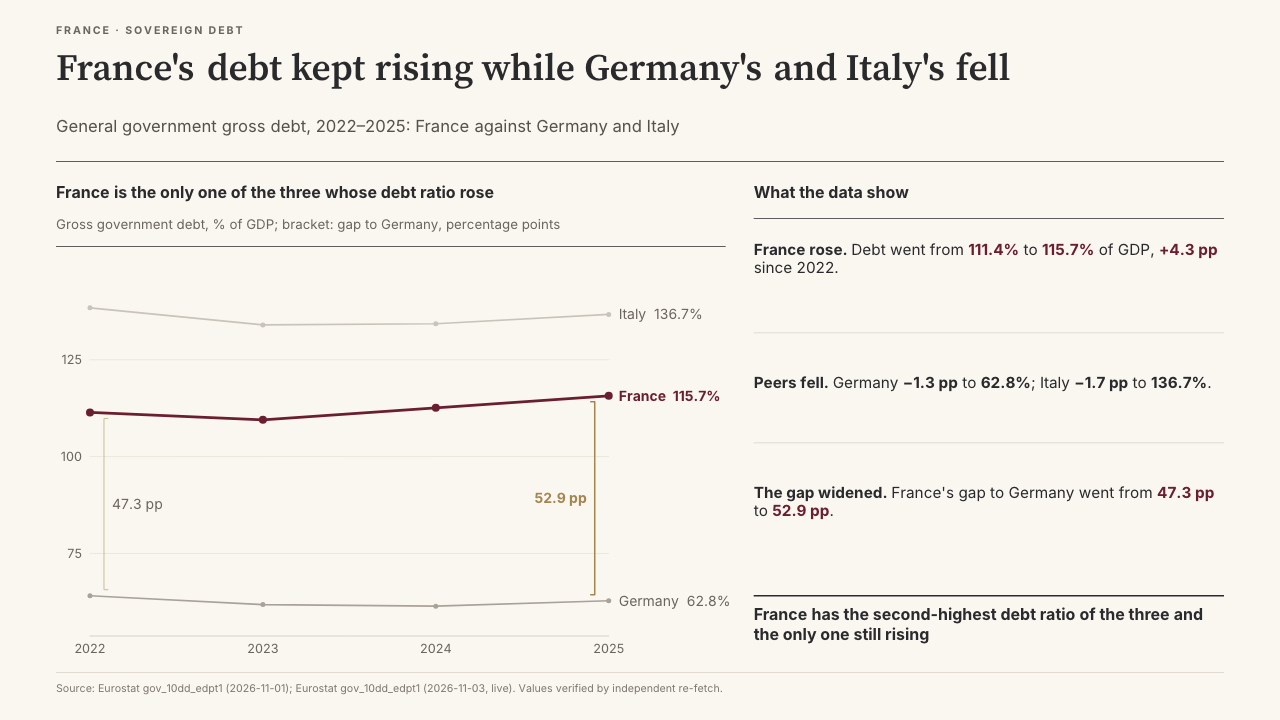
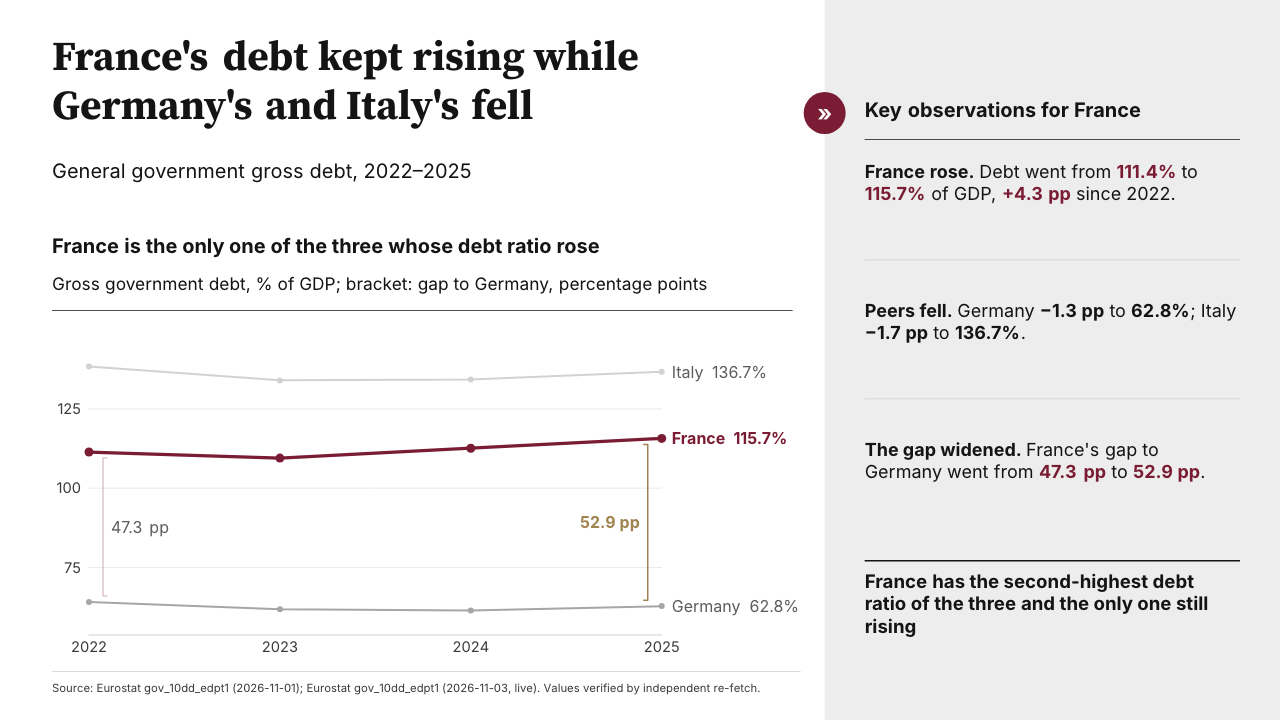
Gate E revision 2: burgundy style on white after review
White page, black heavy serif titles with a short subtitle, bold exhibit headers
over a black rule, larger type, neutral greys, a full-height grey implications
panel with a chevron marker, values inside bars, gold reduced to rare accents.
The tinted last column becomes the full panel in languages that ask for it; the
title keeps clear of it. Skill rules and palette specimen updated.

diff --git a/docs/workspace-prototype/gate-e/palette.html b/docs/workspace-prototype/gate-e/palette.html
@@ -1,32 +1,32 @@
 <!doctype html><meta charset="utf-8"><style>
-body{margin:0;background:#FAF7F1;font:14px Inter,Helvetica,sans-serif;color:#2A2A2D;padding:40px 56px;width:1168px}
+body{margin:0;background:#FFFFFF;font:14px Inter,Helvetica,sans-serif;color:#141414;padding:40px 56px;width:1168px}
 h1{font:600 28px 'Source Serif 4',Georgia,serif;margin:0 0 6px} .sub{color:#6A655E;margin:0 0 22px}
 .grid{display:grid;grid-template-columns:repeat(4,1fr);gap:14px 18px}.sw{display:flex;gap:12px;align-items:flex-start}
 .chip{width:58px;height:58px;border-radius:2px;flex:none;border:1px solid #D8D1C4}.n{font-weight:700}.hex{font:12px ui-monospace,Menlo,monospace;color:#55514B}.use{font-size:12px;color:#55514B;line-height:1.35;margin-top:2px}
 h2{font:700 13px Inter;letter-spacing:.12em;text-transform:uppercase;color:#6A655E;margin:26px 0 10px;border-bottom:1px solid #2A2A2D;padding-bottom:6px}
 table{border-collapse:collapse;width:100%;font-size:13px}td,th{padding:7px 8px;text-align:left;border-bottom:1px solid #D8D1C4;vertical-align:top}th{border-bottom:1px solid #2A2A2D}
 </style>
-<h1>Burgundy and gold institutional palette</h1>
-<p class="sub">Colour roles, not a recolour: charcoal carries text; burgundy marks the focal data; antique gold marks structure and one highlight; warm greys carry context. Provisional values from the written brief, to be re-sampled from the reference image.</p>
+<h1>Burgundy institutional palette, on white</h1>
+<p class="sub">White page, black text and rules, burgundy only for the focal data and key figures, neutral greys for everything else; gold is a rare accent. Provisional values: the HKMC reference image has not been supplied.</p>
 <div class="grid">
-<div class="sw"><div class="chip" style="background:#6B1E2E"></div><div><div class="n">Wine (primary)</div><div class="hex">#6B1E2E</div><div class="use">Focus series, focus row and bar, lead figures, badges</div></div></div>
-<div class="sw"><div class="chip" style="background:#4B1520"></div><div><div class="n">Deep wine</div><div class="hex">#4B1520</div><div class="use">Section dividers, agenda panel; never behind charts</div></div></div>
-<div class="sw"><div class="chip" style="background:#EFE0DC"></div><div><div class="n">Wine tint</div><div class="hex">#EFE0DC</div><div class="use">The focus row in a table or ranking</div></div></div>
-<div class="sw"><div class="chip" style="background:#A3854F"></div><div><div class="n">Antique gold</div><div class="hex">#A3854F</div><div class="use">Rules, dividers, gap brackets, callout leaders, one highlight</div></div></div>
-<div class="sw"><div class="chip" style="background:#CDBB93"></div><div><div class="n">Soft gold</div><div class="hex">#CDBB93</div><div class="use">Secondary rules, numerals on dark, earlier-period marks</div></div></div>
-<div class="sw"><div class="chip" style="background:#FAF7F1"></div><div><div class="n">Ivory (paper)</div><div class="hex">#FAF7F1</div><div class="use">Slide background</div></div></div>
-<div class="sw"><div class="chip" style="background:#F1EBE1"></div><div><div class="n">Warm surface</div><div class="hex">#F1EBE1</div><div class="use">Tinted figures column, panels</div></div></div>
-<div class="sw"><div class="chip" style="background:#2A2A2D"></div><div><div class="n">Charcoal</div><div class="hex">#2A2A2D</div><div class="use">Titles, text, peer figures, title and exhibit rules</div></div></div>
-<div class="sw"><div class="chip" style="background:#6A655E"></div><div><div class="n">Warm grey</div><div class="hex">#6A655E</div><div class="use">Standfirsts, units, axis labels, captions</div></div></div>
-<div class="sw"><div class="chip" style="background:#A8A29A"></div><div><div class="n">Peer grey</div><div class="hex">#A8A29A</div><div class="use">Peer series and bars</div></div></div>
-<div class="sw"><div class="chip" style="background:#C9C3BA"></div><div><div class="n">Light peer</div><div class="hex">#C9C3BA</div><div class="use">Second peer, bars in a ranking</div></div></div>
-<div class="sw"><div class="chip" style="background:#D8D1C4"></div><div><div class="n">Hairline</div><div class="hex">#D8D1C4</div><div class="use">Row separators, footnote rule</div></div></div>
+<div class="sw"><div class="chip" style="background:#7A1C33"></div><div><div class="n">Wine (primary)</div><div class="hex">#7A1C33</div><div class="use">Focus series, row and bar; lead figures; badges and the panel marker</div></div></div>
+<div class="sw"><div class="chip" style="background:#4A0F1F"></div><div><div class="n">Deep wine</div><div class="hex">#4A0F1F</div><div class="use">Section dividers and the agenda panel</div></div></div>
+<div class="sw"><div class="chip" style="background:#F4E4E8"></div><div><div class="n">Wine tint</div><div class="hex">#F4E4E8</div><div class="use">The focus row in a table or ranking</div></div></div>
+<div class="sw"><div class="chip" style="background:#C9A9B0"></div><div><div class="n">Rose</div><div class="hex">#C9A9B0</div><div class="use">A second data series when one is needed</div></div></div>
+<div class="sw"><div class="chip" style="background:#FFFFFF"></div><div><div class="n">White (paper)</div><div class="hex">#FFFFFF</div><div class="use">Slide background</div></div></div>
+<div class="sw"><div class="chip" style="background:#EDEDED"></div><div><div class="n">Panel grey</div><div class="hex">#EDEDED</div><div class="use">The full-height implications panel</div></div></div>
+<div class="sw"><div class="chip" style="background:#141414"></div><div><div class="n">Black</div><div class="hex">#141414</div><div class="use">Titles, text, rules under exhibit headers</div></div></div>
+<div class="sw"><div class="chip" style="background:#5C5C5C"></div><div><div class="n">Grey</div><div class="hex">#5C5C5C</div><div class="use">Units, captions, secondary text</div></div></div>
+<div class="sw"><div class="chip" style="background:#A6A6A6"></div><div><div class="n">Peer grey</div><div class="hex">#A6A6A6</div><div class="use">Peer series</div></div></div>
+<div class="sw"><div class="chip" style="background:#D2D2D2"></div><div><div class="n">Light peer</div><div class="hex">#D2D2D2</div><div class="use">Bars of non-focus entities</div></div></div>
+<div class="sw"><div class="chip" style="background:#CFCFCF"></div><div><div class="n">Hairline</div><div class="hex">#CFCFCF</div><div class="use">Row separators, footnote rule</div></div></div>
+<div class="sw"><div class="chip" style="background:#A0844F"></div><div><div class="n">Antique gold</div><div class="hex">#A0844F</div><div class="use">Rare accent only: a gap bracket or one highlight</div></div></div>
 </div>
 <h2>Where each colour goes</h2>
 <table><tr><th>Element</th><th>Treatment</th></tr>
-<tr><td>Headings</td><td>Charcoal serif title (28 pt); warm-grey tracker above; charcoal hairline under the title block. Never burgundy titles.</td></tr>
-<tr><td>Charts</td><td>The focus country in wine (2.75 pt line, every point marked); peers in peer greys; gap brackets and leaders in antique gold; gridlines barely visible.</td></tr>
-<tr><td>Tables</td><td>Charcoal header over a charcoal rule; hairline rows; the focus row on wine tint with a wine bar; a worse change in wine, a better one in grey.</td></tr>
-<tr><td>KPI callouts</td><td>The lead figure in wine serif; supporting figures in charcoal serif; captions in warm grey; context figures in gold.</td></tr>
+<tr><td>Headings</td><td>Black heavy serif title (31 pt, bold); a short subtitle in regular sans; no band, no tracker. Exhibit headers in bold sans 15 pt, the unit line beneath, a black rule.</td></tr>
+<tr><td>Charts</td><td>The focus country in wine (3.25 pt line, every point marked); peers in neutral greys; labels 11–12 pt; values written inside bars (white on wine).</td></tr>
+<tr><td>Tables</td><td>Black header over a black rule; hairline rows; the focus row on wine tint with a wine bar; others light grey; a worse change in wine.</td></tr>
+<tr><td>KPI callouts</td><td>Lead figures in wine bold serif in the grey implications panel; supporting figures in black serif; captions in black sans.</td></tr>
 <tr><td>Diagrams and matrices</td><td>Numbered wine badges; focus-country figures in wine serif, peer figures in charcoal; hairline rows; the conclusion under a heavier charcoal rule.</td></tr>
-<tr><td>Section dividers</td><td>Deep-wine field; the numeral and a short rule in antique gold; the section title in ivory serif.</td></tr></table>
+<tr><td>Section dividers</td><td>Deep-wine field; the numeral and title in white bold serif.</td></tr></table>

diff --git a/app/web/src/core/design/language.ts b/app/web/src/core/design/language.ts
@@ -34,7 +34,10 @@ export interface Language {
     | 'tracker' | 'exhibit' | 'unit' | 'lead' | 'conclusion' | 'cell' | 'cellHead' | 'cellFigure', TypeRole>
   /** slide frame. chrome 'band': a masthead band (navy institutional); 'rule': no band, a small tracker over the title,
    *  a hairline under the title block and the source line at the foot (the reference reports' frame) */
-  frame: { margin: number; top: number; bottom: number; masthead: { height: number; rule: number } | null; chrome?: 'band' | 'rule' }
+  frame: { margin: number; top: number; bottom: number; masthead: { height: number; rule: number } | null; chrome?: 'band' | 'rule'
+    /** rule chrome: a small tracker above the title (default yes); a rule under the title block (default yes); a tinted last
+     *  column as a full-height panel bleeding to the edges, the title kept clear of it, a chevron marker on its border */
+    tracker?: boolean; titleRule?: boolean; panel?: 'full' | 'inset' }
   chart: { focusWidth: number; peerWidth: number; gridWidth: number; focusDot: number; peerDot: number; barHeight: number; legend: 'direct' | 'legend' }
 }
 
@@ -78,48 +81,47 @@ export const LANGUAGES: Record<string, Language> = {
     chart: { focusWidth: 3, peerWidth: 1.6, gridWidth: 0.75, focusDot: 4, peerDot: 2.5, barHeight: 0.58, legend: 'direct' },
   },
 }
-// Burgundy and gold (Gate E). Colour roles, not a recolour of navy: charcoal carries text and titles; burgundy is kept
-// for the focal data (the focus series, the focus row, the lead figures) and the section dividers; antique gold for rules,
-// dividers, callout leaders and one selective highlight; warm greys for peers and secondary data; ivory paper.
-// The type scale follows the reference reports: a 28 pt serif title, 11-12 pt text, 10 pt axis labels, 8 pt sources.
-// Provisional values from the written description; replace with values sampled from the reference image when it is supplied.
-const wine = '#6B1E2E', antique = '#A3854F', charcoal = '#2A2A2D'
+// Burgundy (Gate E, revised after review): the consulting-report look on WHITE. Near-black heavy serif titles, bold
+// sans exhibit headers with a dark rule, a full-height light-grey implications panel, large type. Colour roles: black
+// carries text and rules; wine marks the focal data and key figures; a rose tint and neutral greys carry the rest;
+// antique gold is reduced to rare accents. Provisional values (the HKMC reference image was not supplied).
+const wine = '#7A1C33', ink = '#141414'
 LANGUAGES.burgundy = {
   id: 'burgundy',
-  name: 'Burgundy and gold institutional',
-  fonts: { display: 'Source Serif 4', displayStrong: 'Source Serif 4 Semibold', text: 'Inter' },
-  color: { paper: '#FAF7F1', ink: charcoal, navy: wine, navyDeep: '#4B1520', gold: antique, goldSoft: '#CDBB93', muted: '#6A655E', hair: '#D8D1C4',
-    grid: '#E7E1D6', peer: '#A8A29A', peerSoft: '#C9C3BA', surface: '#F1EBE1', surfaceDeep: '#EFE0DC', onDark: '#F7F1E7', onDarkMuted: '#CDB8B4' },
+  name: 'Burgundy institutional (white)',
+  fonts: { display: 'Source Serif 4', displayStrong: 'Source Serif 4', text: 'Inter' },
+  color: { paper: '#FFFFFF', ink, navy: wine, navyDeep: '#4A0F1F', gold: '#A0844F', goldSoft: '#C9A9B0', muted: '#5C5C5C', hair: '#CFCFCF',
+    grid: '#E3E3E3', peer: '#A6A6A6', peerSoft: '#D2D2D2', surface: '#EDEDED', surfaceDeep: '#F4E4E8', onDark: '#FFFFFF', onDarkMuted: '#D9C3C8' },
   type: {
-    section: { font: 'Inter', pt: 8, color: '#6A655E', bold: true, caps: true, tracking: 140 },
-    kicker: { font: 'Inter', pt: 8.5, color: antique, bold: true, caps: true, tracking: 140 },
-    headline: { font: 'Source Serif 4 Semibold', pt: 28, color: charcoal, lineSpacing: 94 },
-    headlineSmall: { font: 'Source Serif 4 Semibold', pt: 24, color: charcoal, lineSpacing: 95 },
-    standfirst: { font: 'Inter', pt: 12.5, color: '#55514B', lineSpacing: 120 },
-    label: { font: 'Inter', pt: 8.5, color: '#6A655E', bold: true, caps: true, tracking: 110 },
-    body: { font: 'Inter', pt: 11.5, color: charcoal, lineSpacing: 125 },
-    bodySmall: { font: 'Inter', pt: 10, color: '#3E3B37', lineSpacing: 125 },
-    hero: { font: 'Source Serif 4 Semibold', pt: 46, color: wine, lineSpacing: 90 },
-    heroMid: { font: 'Source Serif 4 Semibold', pt: 34, color: wine, lineSpacing: 90 },
-    heroSmall: { font: 'Source Serif 4 Semibold', pt: 24, color: charcoal, lineSpacing: 92 },
-    caption: { font: 'Inter', pt: 10, color: '#6A655E', lineSpacing: 120 },
-    footnote: { font: 'Inter', pt: 8, color: '#7C776F', lineSpacing: 115 },
-    axis: { font: 'Inter', pt: 9.5, color: '#6A655E' },
-    dataLabel: { font: 'Inter', pt: 10.5, color: charcoal, bold: true },
-    chartHeading: { font: 'Inter', pt: 11.5, color: charcoal, bold: true, lineSpacing: 115 },
-    navNumber: { font: 'Source Serif 4 Semibold', pt: 28, color: '#CDBB93', lineSpacing: 90 },
-    navItem: { font: 'Inter', pt: 15, color: '#F7F1E7', lineSpacing: 115 },
-    tracker: { font: 'Inter', pt: 8, color: '#6A655E', bold: true, caps: true, tracking: 140 },
-    exhibit: { font: 'Inter', pt: 12, color: charcoal, bold: true, lineSpacing: 115 },
-    unit: { font: 'Inter', pt: 10, color: '#6A655E', lineSpacing: 115 },
-    lead: { font: 'Inter', pt: 11.5, color: charcoal, lineSpacing: 125 },
-    conclusion: { font: 'Inter', pt: 12, color: charcoal, bold: true, lineSpacing: 120 },
-    cell: { font: 'Inter', pt: 10.5, color: charcoal, lineSpacing: 120 },
-    cellHead: { font: 'Inter', pt: 9.5, color: '#55514B', bold: true, lineSpacing: 115 },
-    cellFigure: { font: 'Source Serif 4 Semibold', pt: 20, color: wine, lineSpacing: 95 },
+    section: { font: 'Inter', pt: 8, color: '#5C5C5C', bold: true, caps: true, tracking: 140 },
+    kicker: { font: 'Inter', pt: 9, color: wine, bold: true, caps: true, tracking: 120 },
+    headline: { font: 'Source Serif 4', pt: 31, color: ink, bold: true, lineSpacing: 92 },
+    headlineSmall: { font: 'Source Serif 4', pt: 27, color: ink, bold: true, lineSpacing: 92 },
+    standfirst: { font: 'Inter', pt: 15, color: ink, lineSpacing: 115 },
+    label: { font: 'Inter', pt: 9, color: '#5C5C5C', bold: true, caps: true, tracking: 110 },
+    body: { font: 'Inter', pt: 13, color: ink, lineSpacing: 120 },
+    bodySmall: { font: 'Inter', pt: 11.5, color: '#2E2E2E', lineSpacing: 120 },
+    hero: { font: 'Source Serif 4', pt: 50, color: wine, bold: true, lineSpacing: 88 },
+    heroMid: { font: 'Source Serif 4', pt: 38, color: wine, bold: true, lineSpacing: 88 },
+    heroSmall: { font: 'Source Serif 4', pt: 30, color: ink, bold: true, lineSpacing: 90 },
+    caption: { font: 'Inter', pt: 12, color: ink, lineSpacing: 118 },
+    footnote: { font: 'Inter', pt: 8.5, color: '#3A3A3A', lineSpacing: 115 },
+    axis: { font: 'Inter', pt: 11, color: '#3A3A3A' },
+    dataLabel: { font: 'Inter', pt: 12, color: ink, bold: true },
+    chartHeading: { font: 'Inter', pt: 14, color: ink, bold: true, lineSpacing: 112 },
+    navNumber: { font: 'Source Serif 4', pt: 30, color: '#FFFFFF', bold: true, lineSpacing: 90 },
+    navItem: { font: 'Inter', pt: 17, color: '#FFFFFF', bold: true, lineSpacing: 115 },
+    tracker: { font: 'Inter', pt: 8, color: '#5C5C5C', bold: true, caps: true, tracking: 140 },
+    exhibit: { font: 'Inter', pt: 15, color: ink, bold: true, lineSpacing: 112 },
+    unit: { font: 'Inter', pt: 13, color: ink, lineSpacing: 115 },
+    lead: { font: 'Inter', pt: 13.5, color: ink, lineSpacing: 120 },
+    conclusion: { font: 'Inter', pt: 14, color: ink, bold: true, lineSpacing: 118 },
+    cell: { font: 'Inter', pt: 12.5, color: ink, lineSpacing: 118 },
+    cellHead: { font: 'Inter', pt: 12, color: ink, bold: true, lineSpacing: 112 },
+    cellFigure: { font: 'Source Serif 4', pt: 24, color: wine, bold: true, lineSpacing: 92 },
   },
-  frame: { margin: 56, top: 0, bottom: 28, masthead: null, chrome: 'rule' },
-  chart: { focusWidth: 2.75, peerWidth: 1.6, gridWidth: 0.75, focusDot: 4, peerDot: 2.5, barHeight: 0.62, legend: 'direct' },
+  frame: { margin: 52, top: 0, bottom: 26, masthead: null, chrome: 'rule', tracker: false, titleRule: false, panel: 'full' },
+  chart: { focusWidth: 3.25, peerWidth: 2, gridWidth: 0.75, focusDot: 4.5, peerDot: 3, barHeight: 0.66, legend: 'direct' },
 }
 
 export const DEFAULT_LANGUAGE = 'institutional'

diff --git a/app/web/src/core/design/compose.ts b/app/web/src/core/design/compose.ts
@@ -60,7 +60,8 @@ export function composeLayout(d: SlideDesign, m: FontMetricsProvider): ComposedL
   const section = one((o) => o.kind === 'text' && o.role === 'section')
   const ruled = L.frame.chrome === 'rule'
   // band chrome: the section label sits in the masthead; rule chrome: a small tracker above the title
-  if (section) setText(section, ruled ? 'tracker' : 'section', M, ruled ? 24 : Math.round((mh - px(L.type.section.pt) * 1.2) / 2), cols(9))
+  const showTracker = !ruled || L.frame.tracker !== false
+  if (section && showTracker) setText(section, ruled ? 'tracker' : 'section', M, ruled ? 24 : Math.round((mh - px(L.type.section.pt) * 1.2) / 2), cols(9))
   const source = one((o) => o.kind === 'text' && o.role === 'source')
   let footTop = H - L.frame.bottom
   if (source) {
@@ -70,7 +71,7 @@ export function composeLayout(d: SlideDesign, m: FontMetricsProvider): ComposedL
     rule('foot-line', { x: M, y: footTop - 10, w: W - 2 * M, h: 0.75 }, L.color.hair)
     footTop -= 10
   }
-  const top0 = mh + (L.frame.masthead ? 34 : 48)
+  const top0 = mh + (L.frame.masthead ? 34 : ruled && L.frame.tracker === false ? 34 : 48)
 
   const headline = one((o) => o.kind === 'text' && o.role === 'headline')!
   const stand = one((o) => o.kind === 'text' && o.role === 'standfirst')
@@ -195,27 +196,35 @@ export function composeLayout(d: SlideDesign, m: FontMetricsProvider): ComposedL
     // Gate E: columns of stacked blocks. Text blocks are measured in their own typefaces; charts and matrices share the
     // height that is left. Exhibit titles get a hairline under them (after their unit line); commentary blocks are
     // separated by hairlines; the conclusion sits under a heavier rule. The layout is the composition's params.
-    let y = header(M, top0, cols(11), 2, cols(10)) + 14
-    rule('title-rule', { x: M, y, w: W - 2 * M, h: 0.75 }, L.color.ink)
-    const y0 = y + 22, bottom = footTop - 12
     const columns = P.columns?.length ? P.columns : [{ span: 12, slots: [...new Set(d.objects.map((o) => (o as any).slot).filter(Boolean))] as string[] }]
+    // a tinted last column in a 'full' panel language: a grey panel from the top of the slide to the bottom, bleeding to
+    // the right edge; the title block keeps clear of it (the reference reports' implications panel)
+    const lastCol = columns[columns.length - 1]!, fullPanel = !!lastCol.tint && L.frame.panel === 'full' && columns.length > 1
+    const panelX = M + columns.slice(0, -1).reduce((a, c) => a + cols(c.span) + G, 0) - 30
+    const headW = fullPanel ? panelX - M - 36 : W - 2 * M
+    let y = header(M, top0, headW, fullPanel ? 3 : 2, fullPanel ? headW : cols(10)) + 14
+    if (L.frame.titleRule !== false) rule('title-rule', { x: M, y, w: W - 2 * M, h: 0.75 }, L.color.ink)
+    const y0 = y + (L.frame.titleRule !== false ? 22 : 26), bottom = footTop - 12
     let x = M
     const roleOf = (o: DesignObject): keyof Language['type'] => o.kind !== 'text' ? 'body'
       : o.role === 'exhibit' ? 'exhibit' : o.role === 'unit' ? 'unit' : o.role === 'lead' ? 'lead' : o.role === 'conclusion' ? 'conclusion' : o.role === 'label' ? 'label' : o.role === 'note' ? 'bodySmall' : 'body'
     const GAP = 16
     for (const col of columns) {
-      const w = cols(col.span), cx = x
+      const w = cols(col.span), cx = x, last = col === columns[columns.length - 1]
       x += w + G
-      const last = col === columns[columns.length - 1]
       if (col.tint) {
-        decor.push({ id: `col-tint-${cx}`, kind: 'rule', box: { x: cx - 22, y: y0 - 16, w: last ? W - (cx - 22) : w + 44, h: last ? H - (y0 - 16) : bottom - y0 + 28 }, fill: L.color.surface })
+        const full = fullPanel && last, px0 = full ? panelX : cx - 22
+        decor.push({ id: `col-tint-${cx}`, kind: 'rule', box: full ? { x: px0, y: 0, w: W - px0, h: H } : { x: px0, y: y0 - 16, w: last ? W - px0 : w + 44, h: last ? H - (y0 - 16) : bottom - y0 + 28 }, fill: L.color.surface })
+        // the chevron marker on the panel's border, level with the panel's first heading
+        if (full) decor.push({ id: 'panel-marker', kind: 'badge', box: { x: px0 - 21, y: Math.min(y0, top0 + 64) - 6, w: 42, h: 42 }, fill: L.color.navy, text: '»', pt: 17 })
         if (last && source) {
-          const sw = cx - 22 - 24 - M, h = height(textOf(source), L.type.footnote, sw)
+          const sw = px0 - 24 - M, h = height(textOf(source), L.type.footnote, sw)
           boxes[source.id] = { x: M, y: H - 18 - h, w: sw, h }
           const fl = decor.find((x) => x.id === 'foot-line'); if (fl) fl.box = { x: M, y: H - 18 - h - 10, w: sw, h: 0.75 }
         }
       }
-      const ox = col.tint ? cx : cx, ow = w
+      const beforePanel = fullPanel && columns.indexOf(col) === columns.length - 2
+      const ox = col.tint && fullPanel && last ? panelX + 40 : cx, ow = col.tint && fullPanel && last ? W - M + 12 - (panelX + 40) : beforePanel ? w - 34 : w
       const objs = col.slots.flatMap((sl) => d.objects.filter((o) => (o as any).slot === sl))
       // measure: fixed heights, and which blocks fill
       const isMatrix = (o: DesignObject) => !!(o as any).cell
@@ -241,8 +250,10 @@ export function composeLayout(d: SlideDesign, m: FontMetricsProvider): ComposedL
       const share = fills ? Math.max(60, (bottom - y0 - fixed) / fills) : 0
       if (!fills && y0 + fixed > bottom) notes.push(`column ${cx}: the blocks are taller than the slide`)
       const leads = items.filter((it) => it.o[0]!.kind === 'text' && (it.o[0] as any).role === 'lead').length
-      const spare = fills ? 0 : Math.max(0, bottom - y0 - fixed), extraGap = leads > 1 ? Math.min(64, (spare * 0.8) / (leads - 1)) : 0
-      let cy = y0
+      const spare = fills ? 0 : Math.max(0, bottom - (col.tint && fullPanel && last ? Math.min(y0, top0 + 64) : y0) - fixed), extraGap = leads > 1 ? Math.min(64, (spare * 0.8) / (leads - 1)) : 0
+      // a full-height panel is free of the title block: its content may start higher than the exhibits beside it
+      const top = col.tint && fullPanel && last ? Math.min(y0, top0 + 64) : y0
+      let cy = top
       items.forEach((it, i) => {
         const prev = items[i - 1]?.o[0], o = it.o[0]!
         // hairline between consecutive commentary blocks; heavier rule above the conclusion
@@ -324,7 +335,7 @@ export function composeLayout(d: SlideDesign, m: FontMetricsProvider): ComposedL
     if (source) { boxes[source.id] = { ...boxes[source.id]!, w: lw }; const h = height(textOf(source), L.type.footnote, lw); boxes[source.id]!.h = h; boxes[source.id]!.y = H - 18 - h }
     const fl = decor.find((x) => x.id === 'foot-line'); if (fl && source) { fl.box.w = lw; fl.box.y = boxes[source.id]!.y - 10 }
   }
-  for (const o of d.objects) if (!boxes[o.id]) notes.push(`${o.id} has no place in a ${k} composition`)
+  for (const o of d.objects) if (!boxes[o.id] && !(o === section && !showTracker)) notes.push(`${o.id} has no place in a ${k} composition`)
   const content: Box = { x: M, y: top0, w: W - 2 * M, h: footTop - top0 }
   return { boxes, sizes, roles, language: L, decor, notes, ...(background ? { background } : {}), zones: { header: { x: 0, y: 0, w: W, h: top0 }, content, footer: { x: M, y: footTop, w: W - 2 * M, h: H - footTop } } }
 }

diff --git a/app/web/src/core/design/proposals.ts b/app/web/src/core/design/proposals.ts
@@ -51,11 +51,11 @@ export function debtCommentary(p: Project, focus = 'FR', peers = ['DE', 'IT'], l
   const objs: DesignObject[] = [
     T('section', 'section', { text: `${fe} · Sovereign debt` }),
     T('headline', 'headline', { text: headline }),
-    T('standfirst', 'standfirst', { text: `General government gross debt, ${a}–${b}: ${fe} against ${list(P.map((d) => entityOf(p, d)))}` }),
+    T('standfirst', 'standfirst', { text: `General government gross debt, ${a}–${b}` }),
     T('ex', 'exhibit', { text: onlyRiser ? `${fe} is the only one of the ${words[all.length]} whose debt ratio rose` : `Debt ratios, ${a}–${b}` }, { slot: 'exhibit' }),
     T('ex-unit', 'unit', { text: `Gross government debt, % of GDP; bracket: gap to ${pe}, percentage points` }, { slot: 'exhibit' }),
     { id: 'chart', kind: 'viz', role: 'primary', viz: spec(p, 'trend', 'line', all, { title: 'Gross government debt, % of GDP' }), emphasis: F, slot: 'chart', draw: { annotate: 'gap', reference: ref } },
-    T('side', 'exhibit', { text: 'What the data show' }, { slot: 'side' }),
+    T('side', 'exhibit', { text: `Key observations for ${fe}` }, { slot: 'side' }),
     T('c1', 'lead', lead(w.text(`Debt went from ${w.num(F, a)} to ${w.num(F, b)} of GDP, ${w.change(F, a, b)} since ${a}.`), dir(F) > 0 ? `${fe} rose.` : `${fe} eased.`), { slot: 'notes' }),
     // peers' figures in charcoal: burgundy is kept for the focus country
     T('c2', 'lead', lead(w.text(P.map((d) => `${entityOf(p, d)} ${w.change(d, a, b)} to ${w.num(d, b)}`).join('; ') + '.'), P.every((d) => dir(d) < 0) ? 'Peers fell.' : 'Peers moved.'), { slot: 'notes', accent: 'ink' }),
@@ -64,7 +64,7 @@ export function debtCommentary(p: Project, focus = 'FR', peers = ['DE', 'IT'], l
     T('source', 'source', { text: sourceLine(p, all) }),
   ]
   return make(p, 'Chart with a commentary column (burgundy)', `Show how ${poss(fe)} debt developed against its peers`, { text: headline },
-    { kind: 'columns', recipe: 'chart-commentary', params: { columns: [{ span: 7, slots: ['exhibit', 'chart'] }, { span: 5, slots: ['side', 'notes', 'so'] }] } }, objs,
+    { kind: 'columns', recipe: 'chart-commentary', params: { columns: [{ span: 8, slots: ['exhibit', 'chart'] }, { span: 4, slots: ['side', 'notes', 'so'], tint: true }] } }, objs,
     ['Reference principle: the exhibit is titled with its finding, and the chart takes the larger column at legible type sizes',
       'Commentary column: three blocks with bold lead-ins, one fact each, separated by hairlines; the "so what" under a heavier rule',
       'Colour hierarchy: titles and text in charcoal; burgundy only for France\'s line and figures; gold for the gap brackets'], w, language)
@@ -85,7 +85,7 @@ export function balanceTable(p: Project, focus = 'FR', language = 'burgundy'): D
   const objs: DesignObject[] = [
     T('section', 'section', { text: `${fe} · Fiscal position` }),
     T('headline', 'headline', { text: headline }),
-    T('standfirst', 'standfirst', { text: `General government balance, % of GDP, ${prev} and ${at}, ranked from the largest deficit` }),
+    T('standfirst', 'standfirst', { text: `General government balance, ${prev} and ${at}` }),
     T('ex', 'exhibit', { text: larger.length ? `Only ${list(larger)} ran a larger deficit than ${fe}` : `${fe} ran the largest deficit` }, { slot: 'exhibit' }),
     T('ex-unit', 'unit', { text: `Government balance, % of GDP; change in percentage points (▼ wider deficit)` }, { slot: 'exhibit' }),
     { id: 'table', kind: 'viz', role: 'primary', viz: bell, emphasis: F, slot: 'table', draw: { form: 'rankTable' } },
@@ -122,7 +122,6 @@ export function riskMatrix(p: Project, focus = 'FR', peer = 'DE', language = 'bu
   const objs: DesignObject[] = [
     T('section', 'section', { text: `${fe} · Credit risk` }),
     T('headline', 'headline', { text: weaker.length === rows.length ? `${fe} is weaker than ${pe} on all ${words[rows.length]} credit measures` : `${fe} is weaker than ${pe} on ${words[weaker.length]} of ${words[rows.length]} credit measures` }),
-    T('standfirst', 'standfirst', { text: `Debt, deficit, funding cost and interest burden, ${at}, with ${pe} as the reference peer` }),
     T('ex', 'exhibit', { text: `${worsened.length === rows.length ? 'Every measure' : `${cap(words[worsened.length]!)} of ${words[rows.length]} measures`} moved against ${fe} since ${a}` }, { slot: 'exhibit' }),
     T('ex-unit', 'unit', { text: `Latest values, the gap to ${pe} (percentage points; basis points for the yield) and the change since ${a}` }, { slot: 'exhibit' }),
     ...head.map((h, c) => T(`h${c}`, 'cell', { text: h }, { slot: 'matrix', cell: { r: 0, c } })),

diff --git a/app/web/src/core/design/charts.ts b/app/web/src/core/design/charts.ts
@@ -187,8 +187,8 @@ function rankTable(g: G): Mark[] {
   const order = pr.categories.map((_, i) => i).sort((a, b) => (B.values[a] ?? Infinity) - (B.values[b] ?? Infinity))
   const tp = L.type.cell.pt, hp = L.type.cellHead.pt, vp = L.type.dataLabel.pt, ink = L.color.ink
   const u = unitShort(pr.unit), du = deltaUnit(pr.unit)
-  const rankW = 26, nameW = Math.max(...pr.categories.map((c) => lw(c, tp, c === focusName))) + 16, prevW = Math.max(lw(A.name, hp, true), 58) + 14, chgW = Math.max(lw('Change', hp, true), 66) + 8
-  const barX0 = rankW + nameW, barX1 = W - prevW - chgW - 12, head = 28, rowH = (H - head) / n, barH = Math.min(22, rowH * L.chart.barHeight)
+  const rankW = 26, nameW = Math.max(...pr.categories.map((c) => lw(c, tp, c === focusName))) + 16, prevW = Math.max(lw(A.name, hp, true), 58) + 14, chgW = Math.max(lw('Change', hp, true), 78) + 22
+  const barX0 = rankW + nameW, barX1 = W - prevW - chgW - 12, head = 30, rowH = (H - head) / n, barH = Math.min(32, rowH * L.chart.barHeight)
   const valW = Math.max(...B.values.map((v, i) => (v == null ? 0 : lw(`${fmt(p, v, B.cells[i]!)}${u}`, vp, true)))) + 12
   const neg = B.values.some((v) => v != null && v < 0), pos = B.values.some((v) => v != null && v > 0)
   const d = domain(B.values, true, 0.02), sx = scale(d[0], d[1], barX0 + (neg ? valW : 0), barX1 - (pos ? valW : 0)), z = sx(0)
@@ -204,7 +204,10 @@ function rankTable(g: G): Mark[] {
     if (b != null) {
       const x0 = Math.min(z, sx(b)), x1 = Math.max(z, sx(b)), t = `${fmt(p, b, B.cells[i]!)}${u}`, w = lw(t, vp, isF) + 2
       out.push(rect(markName(1, i, b), { x: x0, y: yc - barH / 2, w: Math.max(1, x1 - x0), h: barH }, isF ? L.color.navy : L.color.peerSoft, `${c}, ${B.name}: ${t}`))
-      out.push(text(`frr-label 1 ${i}`, b < 0 ? { x: x0 - 8 - w, y: yc - 8, w, h: 16 } : { x: x1 + 8, y: yc - 8, w, h: 16 }, t, vp, isF ? L.color.navy : ink, { bold: isF, align: b < 0 ? 'r' : 'l', font: L.type.dataLabel.font }))
+      // the value inside the bar at its outer end when it fits (white on the focus bar), else just outside it
+      const inside = x1 - x0 > w + 18
+      out.push(text(`frr-label 1 ${i}`, inside ? (b < 0 ? { x: x0 + 9, y: yc - 9, w, h: 18 } : { x: x1 - 9 - w, y: yc - 9, w, h: 18 }) : (b < 0 ? { x: x0 - 8 - w, y: yc - 9, w, h: 18 } : { x: x1 + 8, y: yc - 9, w, h: 18 }),
+        t, vp, inside && isF ? '#FFFFFF' : ink, { bold: true, align: inside ? (b < 0 ? 'l' : 'r') : (b < 0 ? 'r' : 'l'), font: L.type.dataLabel.font }))
     } else out.push(axisText(g, `frr-gap 1 ${i}`, { x: barX0, y: yc - 7, w: 80, h: 14 }, 'no value'))
     if (a != null) out.push({ ...text(markName(0, i, a), { x: barX1 + 12, y: yc - 9, w: prevW, h: 18 }, `${fmt(p, a, A.cells[i]!)}${u}`, tp, L.color.muted, { align: 'r', font: L.type.cell.font }) } as Mark)
     if (a != null && b != null) {

diff --git a/app/web/src/core/design/build.ts b/app/web/src/core/design/build.ts
@@ -124,7 +124,7 @@ function planComposed(ctx: Ctx, d: SlideDesign, L: ComposedLaid): ElPlan[] {
   for (const x of L.decor) out.push(x.kind === 'badge'
     // a numbered badge: a native circle with its numeral (a position on the slide, not a figure)
     ? { key: `decor:${x.id}`, kind: 'decor', box: x.box, bind: (slide) => ({ kind: 'decor', slide }),
-        create: { op: 'addElement', kind: 'ellipse', offset: box(x.box), fill: x.fill ?? c.navy, paragraphs: [{ runs: [{ text: x.text ?? '', fontSize: 10.5, bold: true, color: c.onDark, fontFamily: V.fonts.text }], align: 'center' }], bodyPr: { wrap: 'square', insetsEmu: ins(0), anchor: 'ctr' } } as any }
+        create: { op: 'addElement', kind: 'ellipse', offset: box(x.box), fill: x.fill ?? c.navy, paragraphs: [{ runs: [{ text: x.text ?? '', fontSize: x.pt ?? 10.5, bold: true, color: c.onDark, fontFamily: V.fonts.text }], align: 'center' }], bodyPr: { wrap: 'square', insetsEmu: ins(0), anchor: 'ctr' } } as any }
     : { key: `decor:${x.id}`, kind: 'decor', box: x.box, create: { op: 'addElement', kind: 'rect', offset: box({ ...x.box, h: Math.max(x.box.h, 0.75) }), fill: x.fill ?? c.hair }, bind: (slide) => ({ kind: 'decor', slide }) })
   for (const o of d.objects) if (o.kind === 'shape' && L.boxes[o.id]) {
     const fill = o.role === 'panel' ? c.navyDeep : o.role === 'masthead' ? c.navy : c.gold

diff --git a/app/web/src/core/design/layout.ts b/app/web/src/core/design/layout.ts
@@ -13,7 +13,7 @@ export interface Laid {
   sizes: Record<string, number>
   zones: { header: Box; content: Box; footer: Box }
   /** the takeaway band/line and header rule, drawn as decoration */
-  decor: { id: string; box: Box; kind: 'rule' | 'band' | 'card' | 'badge'; fill?: string; text?: string }[]
+  decor: { id: string; box: Box; kind: 'rule' | 'band' | 'card' | 'badge'; fill?: string; text?: string; pt?: number }[]
   notes: string[]
 }
 

diff --git a/.claude/skills/financial-slide-design/references/rules.md b/.claude/skills/financial-slide-design/references/rules.md
@@ -2,12 +2,13 @@
 
 ## Principles from the reference reports (Gate E)
 These are why professional research slides read as designed and Gate D's did not. Apply them before choosing colours.
-1. **Light frame:**
-   - no masthead band;
-   - a small tracker above a large serif action title;
-   - one charcoal hairline under the title block;
+1. **White, light frame** (revised after review: no ivory or beige backgrounds):
+   - a white page;
+   - a black, heavy serif action title (about 31 pt);
+   - a short subtitle in regular sans;
+   - no band and no tracker;
    - the source at the foot.
-   The content gets the space.
+   A full-height light-grey implications panel may take the right third, the title kept clear of it, with a primary-colour chevron marker on its border.
 2. **Exhibits carry their own findings.** Each exhibit has a bold title stating what it shows ("Only Belgium ran a larger deficit than France"), a unit line (measure, unit, period), and a hairline before the evidence.
 3. **Evidence and commentary sit side by side:**
    - a chart or table in the wider column;
@@ -23,18 +24,18 @@ These are why professional research slides read as designed and Gate D's did not
    - numbered badges on rows;
    - focus and reference side by side;
    - the gap, the change, a sparkline and a computed reading.
-6. **Larger, fewer elements:** title 28 pt, text 11.5–12 pt, axis labels 9.5–10 pt, sources 8 pt. Density comes from more information per element, not more elements.
+6. **Larger, fewer elements:** title about 31 pt, exhibit headers 15 pt bold, text 13–13.5 pt, axis labels 11 pt, values 12 pt (inside bars where they fit), sources 8.5 pt. Density comes from more information per element, not more elements.
 7. **Variety inside one frame:** consecutive slides use different compositions (commentary, ranked table, matrix) while the frame, type and colour roles stay constant.
 
 ## Colour roles (any language)
-- **Text:** titles and body in the ink colour (charcoal), never the primary.
+- **Text:** titles and body in black, never the primary; rules under exhibit headers in black.
 - **Primary colour** (wine in `burgundy`, navy in `institutional`): only the focal data. That is:
   - the focus series, row and bar;
   - the lead figures;
   - badges;
   - divider fields.
-- **Accent** (antique gold): rules, brackets, callout leaders, and at most one highlight per slide.
-- **Context:** peers and secondary data in warm greys; peers' figures in charcoal.
+- **Accent** (antique gold): rare, at most one highlight per slide. Rules are black or neutral grey.
+- **Context:** peers and secondary data in neutral greys (not warm or beige); peers' figures in black.
 - **Styles:** `burgundy` (title-rule frame) and `institutional` (masthead band) are switchable languages in `core/design/language.ts`. A new style is a new language entry, not new code.
 
 ## Titles and text

diff --git a/docs/workspace-prototype/GATE-E-VISUAL-REDESIGN.md b/docs/workspace-prototype/GATE-E-VISUAL-REDESIGN.md
@@ -1,4 +1,12 @@
-# Gate E (first step): reference-led redesign of three France slides, burgundy and gold
+# Gate E (first step): reference-led redesign of three France slides, burgundy
+
+**Revision 2 (2026-11-12), after your review and the 20 reference slides you sent.** The ivory paper, beige panels, charcoal serif titles and title rule are replaced:
+- **Page and type:** a white page; black, heavy serif titles (Source Serif 4 Bold, 31 pt) with a short subtitle; bold 15 pt exhibit headers over a black rule; 13–13.5 pt text.
+- **Panel:** a full-height light-grey implications panel with a wine chevron marker on its border.
+- **Charts:** values inside the bars.
+- **Colour:** neutral greys instead of warm ones, wine only for France's data and the lead figures, and gold reduced to a rare accent.
+
+The tables below describe revision 1 where they differ. The palette in `gate-e/palette.png` is the revised one.
 
 **Branch:** `feature/workspace-v2`, local commit only. **Date:** 2026-11-11.
 **Status:** three proposals for your visual review. Nothing in the France deck or the chat flow was changed.
